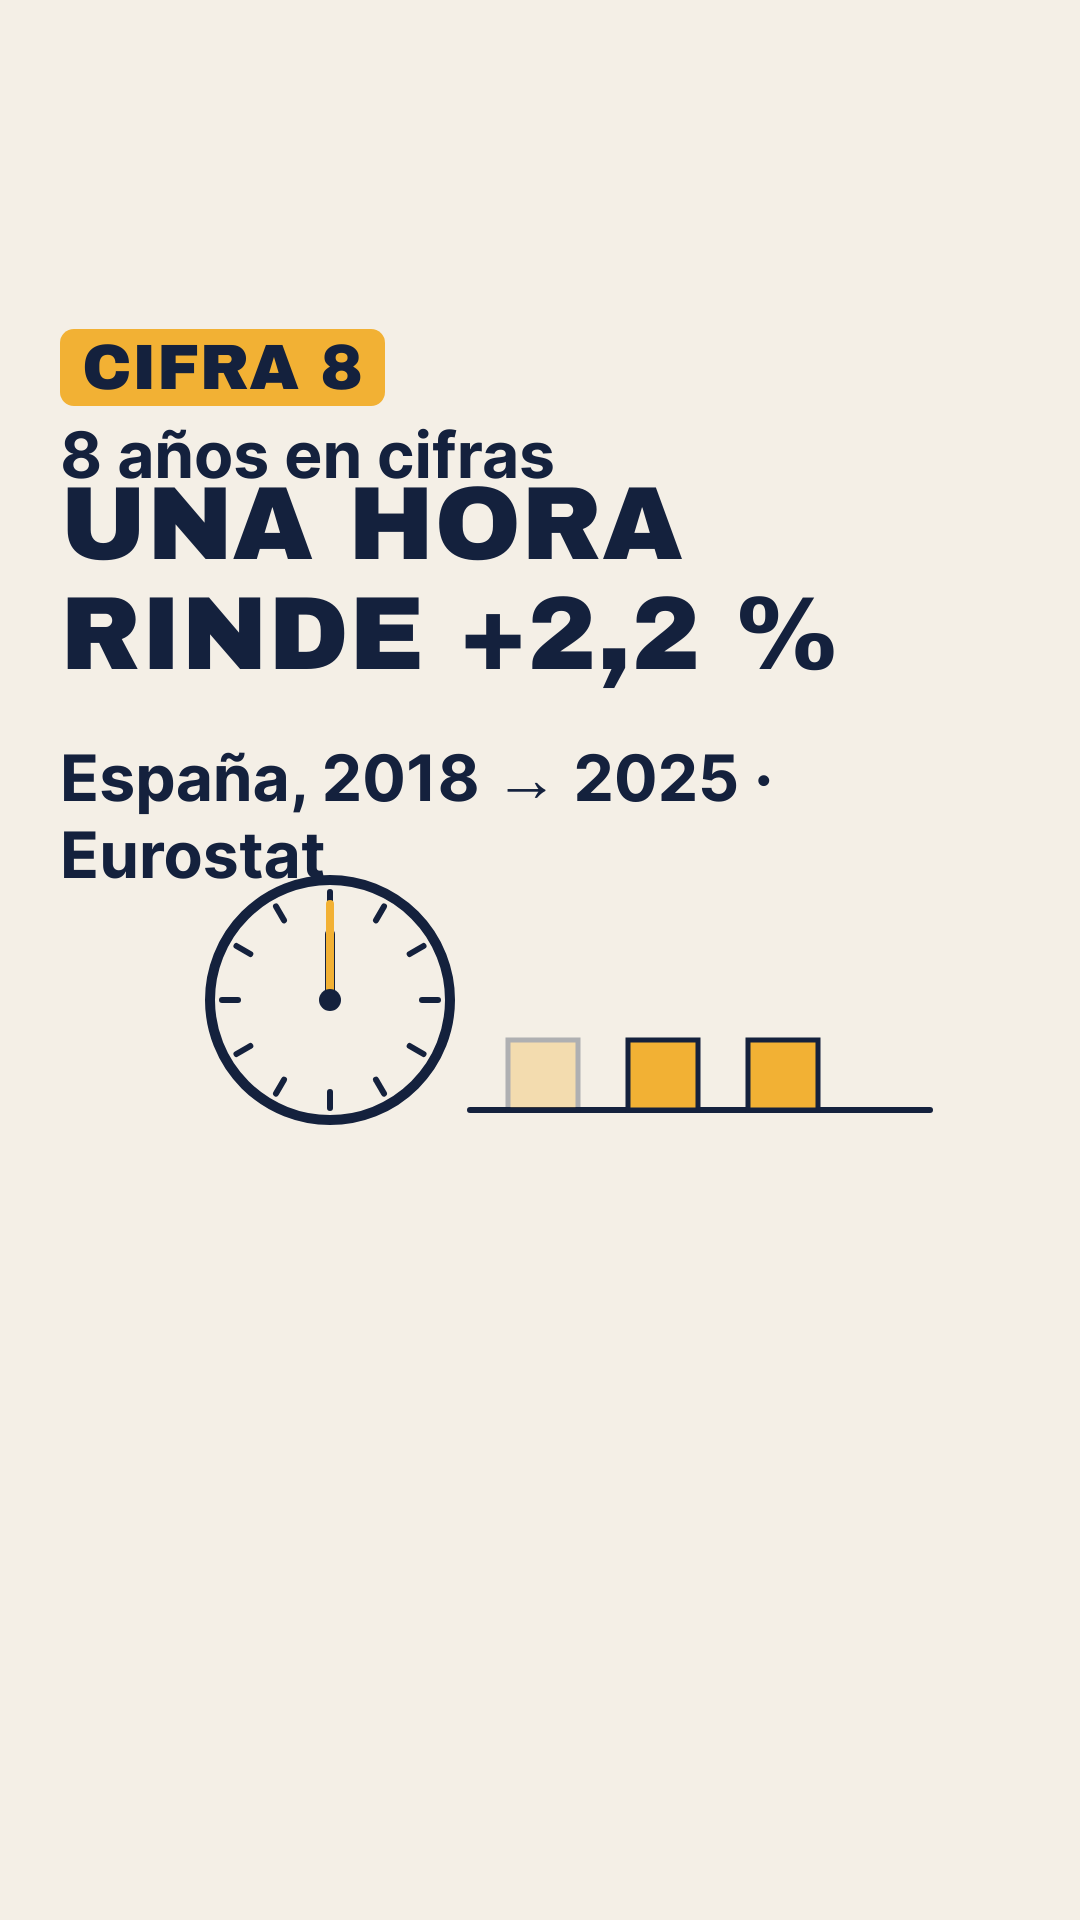
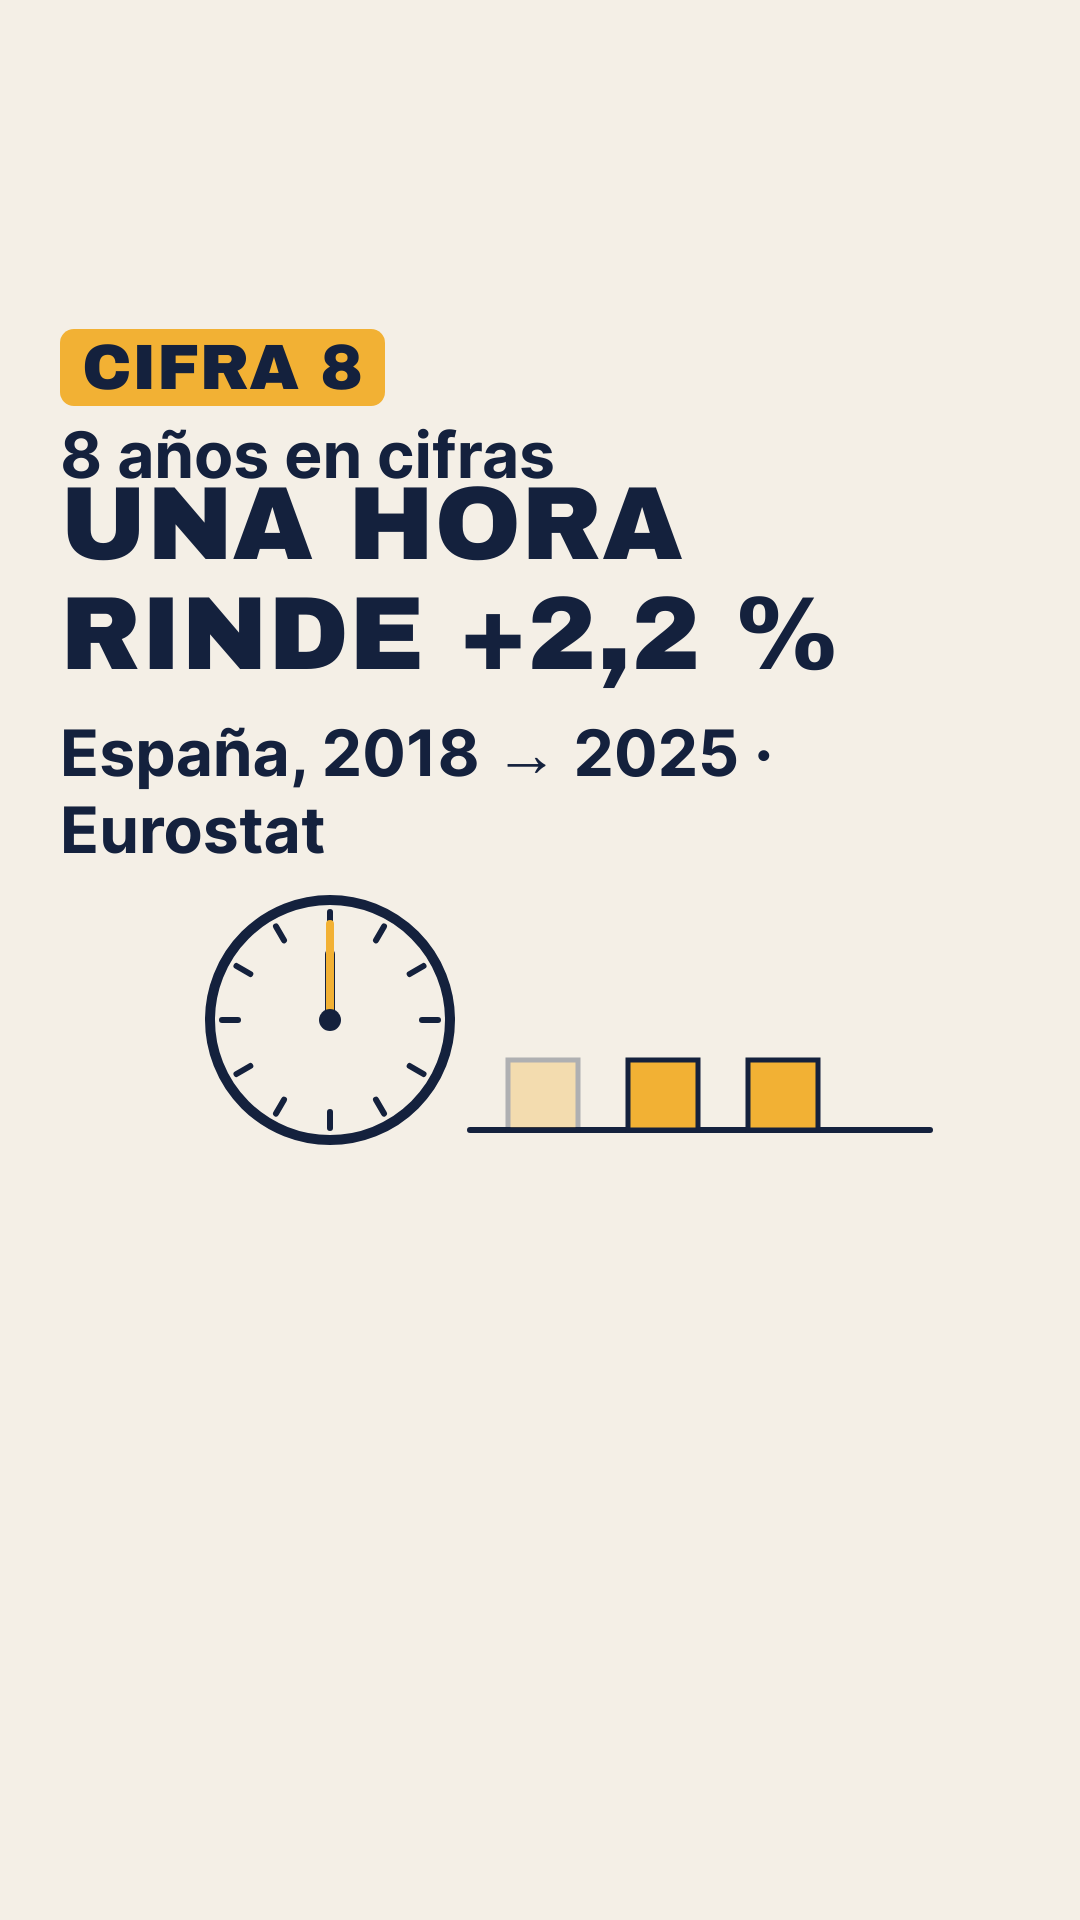
048 en cola (sáb 19:00), informe de producción

Changed region(s): [[0.0611, 0.375, 0.4583, 0.5938], [0.4278, 0.5312, 0.8556, 0.5938], [0.5194, 0.375, 0.7028, 0.4375]]

diff --git a/videos/remotion/src/componentes/Serie2.tsx b/videos/remotion/src/componentes/Serie2.tsx
@@ -19,7 +19,7 @@ const lienzo = (children: React.ReactNode, s: number) => (
   </div>
 );
 
-type SerieL = {nombre: string; final: number; color: string; en: number; dur?: number; pos?: 'arriba' | 'abajo'; tam?: number; dec?: boolean};
+type SerieL = {nombre: string; final: number; color: string; en: number; dur?: number; pos?: 'arriba' | 'abajo'; ldy?: number; tam?: number; dec?: boolean};
 
 export const LineasSerie: React.FC<{series: SerieL[]; max?: number; base?: number; hMax?: number; x0?: number; x1?: number; hasta?: number; anios?: boolean}> = ({series, max = 60, base = 1100, hMax = 400, x0 = 130, x1 = 850, hasta, anios = true}) => {
   const {t} = usa();
@@ -40,7 +40,7 @@ export const LineasSerie: React.FC<{series: SerieL[]; max?: number; base?: numbe
         const ye = base - (sr.final * k / max) * hMax;
         const v = sr.dec ? (sr.final * k).toFixed(1).replace('.', ',') : (sr.final * k).toFixed(0);
         const tam = sr.tam ?? 52;
-        const ly0 = sr.pos === 'abajo' ? ye + tam + 24 : ye - 30;
+        const ly0 = sr.pos === 'abajo' ? ye + tam + 24 + (sr.ldy ?? 0) : ye - 30;
         const ly = sr.pos === 'abajo' ? Math.min(ly0, base - 20) : ly0;
         const ew = ease(k, 0.4, 0.55);
         const anc = (sr.nombre.length + 8) * tam * 0.58;

diff --git a/memoria/generador-video.md b/memoria/generador-video.md
@@ -77,3 +77,5 @@
 - [componentes] 036 (serie, flash 43 s): `Espera.tsx` (REGISTRO_ESPERA: columnasEspera siluetas con tramo mostaza, mapaCcaa por comunidades con globos de 2 líneas, flechas a caja y leyenda 50–173; usa las provincias de datosMapaSenado). `barrasVSerie` admite `sufijo` por barra. Globo de 2 líneas con dx>0 en Cataluña cruza x 960: dx≤-20. subDy 80. (036, 2026-11-08)
 - [componentes] 044 (Estándar 38,6 s): `Deuda.tsx` (REGISTRO_044: flechasD con `choque` para el bucle gancho-cierre, duoD, sueldoCasaD, separanD, bandaD). Foto de Commons con `foto` notas+credito (una sola Notas; el crédito dispara LITERAL: se justifica). Etiqueta "% PIB" a 64 px a x 810 cruzaba 960: cabe con línea hasta x 690. Quietud en tarjetas: flotación ±7 px + balanceo de flecha 16 px. (044, 2026-11-12)
 - [componentes] 046 (serie, Estándar 41 s): sin componente nuevo; `barrasVSerie` con `dur:0.05` (sin cifra intermedia) y `flecha.dx/dy0` (flecha entre barras, no sobre el valor). Etiqueta de barra con base ≥ 1150 la pisa el subtítulo: base ≤ 1110. `voz.mjs` + `voz.txt` a mano funciona con el guion en borradores (sin --forzar); no pases `--voz` a render si ya generaste la voz. AbSerie: textos ≤ 12 caracteres (se cortan en x 880). (046, 2026-11-12)
+- [componentes] 048 (serie, flash 33,4 s): `lineasSerie` admite `dec` por serie (+2,2 %) y `relojSerie` (Serie2.tsx; reloj con sector mostaza y cajas: el sector evita el aviso de QUIETUD, la aguja sola no lo mueve). Sello ÍNDICE,NO NIVEL a y 430 para no tapar la etiqueta de la UE. No uses `python3 -` en Bash (se cuelga). (048, 2026-11-13)
+- [correcciones] 048 v2: `lineasSerie` admite `ldy` (baja la etiqueta de la serie 'abajo' para que su propia línea no la cruce); hMax 460 reparte altura (base ≤ 1100 por los subtítulos). (048 v2, 2026-11-13)

diff --git a/revisiones/videos/048-8-anos-productividad-v1.md b/revisiones/videos/048-8-anos-productividad-v1.md
@@ -1,0 +1,17 @@
+# Revisión de vídeo · 048-8-anos-productividad · vuelta 1
+**Veredicto:** CAMBIOS  →  vuelve a: generador-video
+**Técnica:** 1080×1920 · 30 fps · H.264+AAC · 33,4 s · -14,1 LUFS · -1,4 dBTP · voz ElevenLabs real (no provisional). comprobar.mjs: OK (literalidad, lectura, borde, quietud, subtítulos).
+**Test de formato Reel/TikTok:** 8/10 (criterios fallados: claridad visual del gráfico de dos líneas; mitad inferior de la pantalla vacía en varias escenas)
+
+## Obligatorio (bloqueante)
+1. [escena 5–6, UE vs España, ~22–29 s] La etiqueta "ESPAÑA +2,2 %" queda cruzada por la línea amarilla de la UE y se lee solapada (regla 14/16: ninguna etiqueta de valor se cruza con una línea) → subir la etiqueta de España por encima de su punto... o moverla bajo el extremo de la línea (a la derecha, y ≤ 960) para que no toque la línea UE.
+
+## Formato Reel/TikTok
+1. [escenas 2–5] Contenido compacto arriba; ~1/3 inferior vacío → bajar el gráfico o ampliarlo.
+
+## Recomendado
+1. [escena 5] Las dos líneas arrancan en el mismo punto aunque los índices valen 101,0 y 103,0: aclararlo (p. ej. nota "base 2018 = punto de partida") para que no parezca un truncamiento de eje. No es bloqueante porque las cifras en rótulo son las correctas.
+2. El máximo de la serie 1995–2025 lo verificó el revisor de guion; no lo repito.
+
+## Lo que funciona bien
+- Gancho con cifra y reloj; rótulos literales; sello "ÍNDICE, NO NIVEL"; audio en rango; sin huecos; cierre con CTA.

diff --git a/estado/informe-produccion-2026-11-13.md b/estado/informe-produccion-2026-11-13.md
@@ -1,7 +1,5 @@
-# Producción 2026-11-13
-
-## Rutina claude.ai (03:15 Madrid)
-- Red del entorno sin salida (curl a ine.es, boe.es, europapress.es, commons.wikimedia.org y la API de Eurostat: sin conexión). Sin fuentes no se puede verificar §7 ni bajar fotos: no se encargó ningún guion.
-- Hoy 13-11: cubierto en cola (13:30 042-8-anos-presion-fiscal v1 · 19:00 046-8-anos-paro-juvenil v1).
-- Huecos: sáb 14-11 (12:00 y 19:00) y dom 15-11 (12:00 y 19:00) sin pieza. No hay guiones aprobados pendientes de vídeo; 045 sigue a medias (premisa superada). Quedan para produccion.yml (GitHub Actions, red completa).
-- TikTok a mano: 042 y 046 (borradores en la bandeja de TikTok tras publicarse en IG hoy).
+# Informe de producción 2026-11-13
+- Ya en cola antes: 042 (13-11 13:30), 046 (13-11 19:00).
+- Añadidas: 047-8-anos-pensiones (sáb 14-11 12:00, v1, revisores APROBADO 9/10) y 048-8-anos-productividad (sáb 14-11 19:00, v2; vídeo v1 con CAMBIOS por solape, v2 comprobada por el coordinador).
+- A medias: 045 debates-academia-tv (calendario de debates sin cerrar, ver nota del borrador).
+- Domingo 15-11 queda sin cubrir (fuera del objetivo de hoy y mañana).

diff --git a/publicado/048-8-anos-productividad.md b/publicado/048-8-anos-productividad.md
@@ -1,0 +1,21 @@
+# 048 · 8-anos-productividad · ficha de publicación
+
+| Campo | Valor |
+|---|---|
+| Estado | programado (cola) |
+| Publicación | sábado 2026-11-14 19:00 · Instagram (Reel) + TikTok |
+| Dato vivo | Eurostat nama_10_lp_ulc (2024-2025 provisionales) |
+
+## Texto del post
+Cada hora trabajada en España rinde un 2,2 % más que en 2018. ¿Y en Europa?
+
+Cifra 10 de "8 años en cifras". Productividad real por hora trabajada (Eurostat, índice 2015 = 100): España pasa de 101,0 (2018) a 103,3 (2025, dato provisional), el valor más alto de la serie, que empieza en 1995. La UE-27, de 103,0 a 107,4 (+4,3 %). Variaciones: cálculo propio con datos de Eurostat. Son índices: no comparan cuánto se produce por hora en cada país. Sin rotura de serie entre 2018 y 2025; 2024 y 2025 son provisionales.
+
+¿Lo notas en tu trabajo? Cuéntanoslo en comentarios.
+
+Fuente: Eurostat, nama_10_lp_ulc (consultada el 13-11-2026).
+Música: "Investigations", Kevin MacLeod (incompetech.com) · CC BY 4.0.
+
+#8AñosEnCifras #Productividad #Economía #Eurostat #España
+
+👉 Síguenos para estar informado

diff --git a/estado/programado-hoy.md b/estado/programado-hoy.md
@@ -35,3 +35,4 @@ Para vetar una pieza, di "no" o "para" en el chat: se desprograma.
 | 042-8-anos-presion-fiscal | Reel 40 s | Instagram + TikTok (borrador) vía cola | 2026-11-13 13:30 | revisiones/guiones/042-…-v1.md · revisiones/videos/042-…-v1.md (9/10) |
 | 046-8-anos-paro-juvenil | Reel 41 s | Instagram + TikTok (borrador) vía cola | 2026-11-13 19:00 | revisiones/guiones/046-…-v2.md · revisiones/videos/046-…-v1.md (9/10). Recomprobar Eurostat si sale octubre |
 | 047-8-anos-pensiones | Reel 28 s | Instagram + TikTok (borrador) vía cola | 2026-11-14 12:00 | revisiones/guiones/047-…-v1.md (literales aplicados) · revisiones/videos/047-…-v1.md (9/10). Recomprobar Eurostat COFOG |
+| 048-8-anos-productividad (v2) | Reel 33 s | Instagram + TikTok (borrador) vía cola | 2026-11-14 19:00 | revisiones/guiones/048-…-v1.md (literales aplicados) · revisiones/videos/048-…-v1.md (v2 comprobada por el coordinador). Recomprobar Eurostat 2025 provisional |

diff --git a/memoria/coordinador.md b/memoria/coordinador.md
@@ -46,3 +46,4 @@
 - [nube, 2026-11-12] produccion.yml: 043/044 con guion aprobado + generador-video + revisor-video cupo en ~15 min; el generador no relanza voz si voz.mp3 existe (ahorra créditos).
 - 2026-11-12: la API JSON de Eurostat sí abre desde la nube (cerró dato 2018 en 1 curl); cambios literales los apliqué yo sin segunda vuelta; reservar 2 piezas en curso evitó topes.
 - [nube, 2026-11-13] Rutina claude.ai: red igual (curl 000 a todo, Eurostat incluido). Comprobar, informar y salir. Huecos 14 y 15-11 para produccion.yml.
+- [nube, 2026-11-13] Con red completa, 2 guiones+2 vídeos en ~35 min; cambios de gancho de revisor-guion mejor devolverlos al guionista con el informe (trae el texto); solape de un solo rótulo: lo cierro yo mirando un fotograma.

diff --git a/memoria/revisor-video.md b/memoria/revisor-video.md
@@ -71,3 +71,4 @@
 - [043] Pieza "flash" con embudoR/barrasVSerie: control/control-N.png (6 fotogramas) + comprobar.mjs + 1 tira del cierre bastan; sin renders/subida en nube. (043, 2026-11-12)
 - [044] Pieza 'flash' deuda con flechasD/duoD/separanD: control/control-N.png (6) + comprobar.mjs + 3 crops puntuales bastan; mira etiqueta de cada línea en gráficos de dos series. (044, 2026-11-12)
 - [047] Pieza 'cifra' barrasVSerie: control/control-N.png (6) + comprobar.mjs + ffprobe/loudnorm + 1 tira bastan; 3 llamadas en total. (047, 2026-11-13)
+- [048] Pieza 'cifra' lineas España/UE: control-N.png (6) + comprobar.mjs + loudnorm; la etiqueta de la línea de España queda cruzada por la línea UE. (048, 2026-11-13)

diff --git a/estado/pipeline.md b/estado/pipeline.md
@@ -99,3 +99,4 @@ Lo mantiene el coordinador. Una fila por pieza.
 | am20261112-1727-sanchez-decreto-vivienda | Al minuto: Sánchez defiende su decreto de vivienda | publicando (Al minuto horario) |
 | am20261112-1926-sanchez-violencia-digital | Al minuto: Sánchez pide una red sin violencia digital | publicando (Al minuto horario) |
 | 047 | 8-anos-pensiones | 📊 Datos · serie 8 años | Flash | programado | 1 | 1 | 2026-11-14 12:00 (cola) | v1 APROBADO 9/10 |
+| 048 | 8-anos-productividad | 📊 Datos · serie 8 años | Flash | programado | 1 | 2 | 2026-11-14 19:00 (cola) | v2 comprobada por coordinador |
